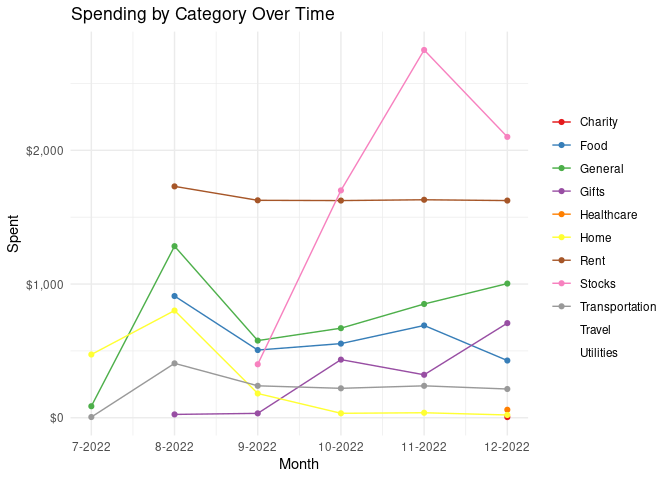
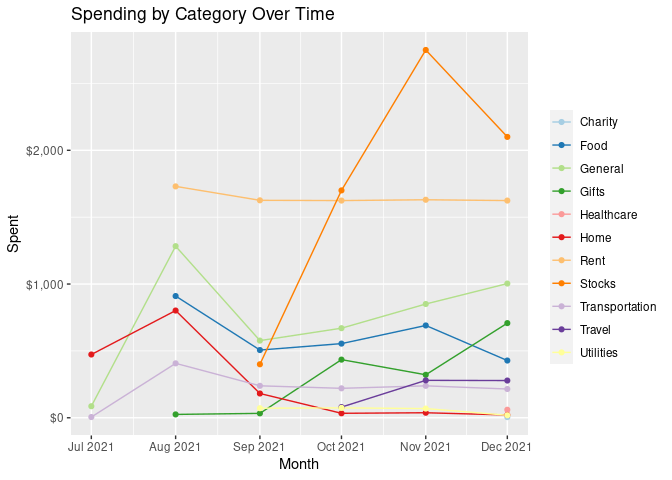
Add pie chart and better date labels for spending over time

diff --git a/budget_report.md b/budget_report.md
@@ -1,7 +1,7 @@
 Callan’s Budget
 ================
 Callan Hoskins
-2022-01-04
+2022-01-06
 
 ![](budget_report_files/figure-gfm/unnamed-chunk-3-1.png)<!-- -->
 
@@ -11,3 +11,4 @@ Your yearly deficit so far is $5479.811511, or 0.1633035%.
 
 ![](budget_report_files/figure-gfm/unnamed-chunk-6-1.png)<!-- -->
 ![](budget_report_files/figure-gfm/unnamed-chunk-7-1.png)<!-- -->
+![](budget_report_files/figure-gfm/unnamed-chunk-8-1.png)<!-- -->
